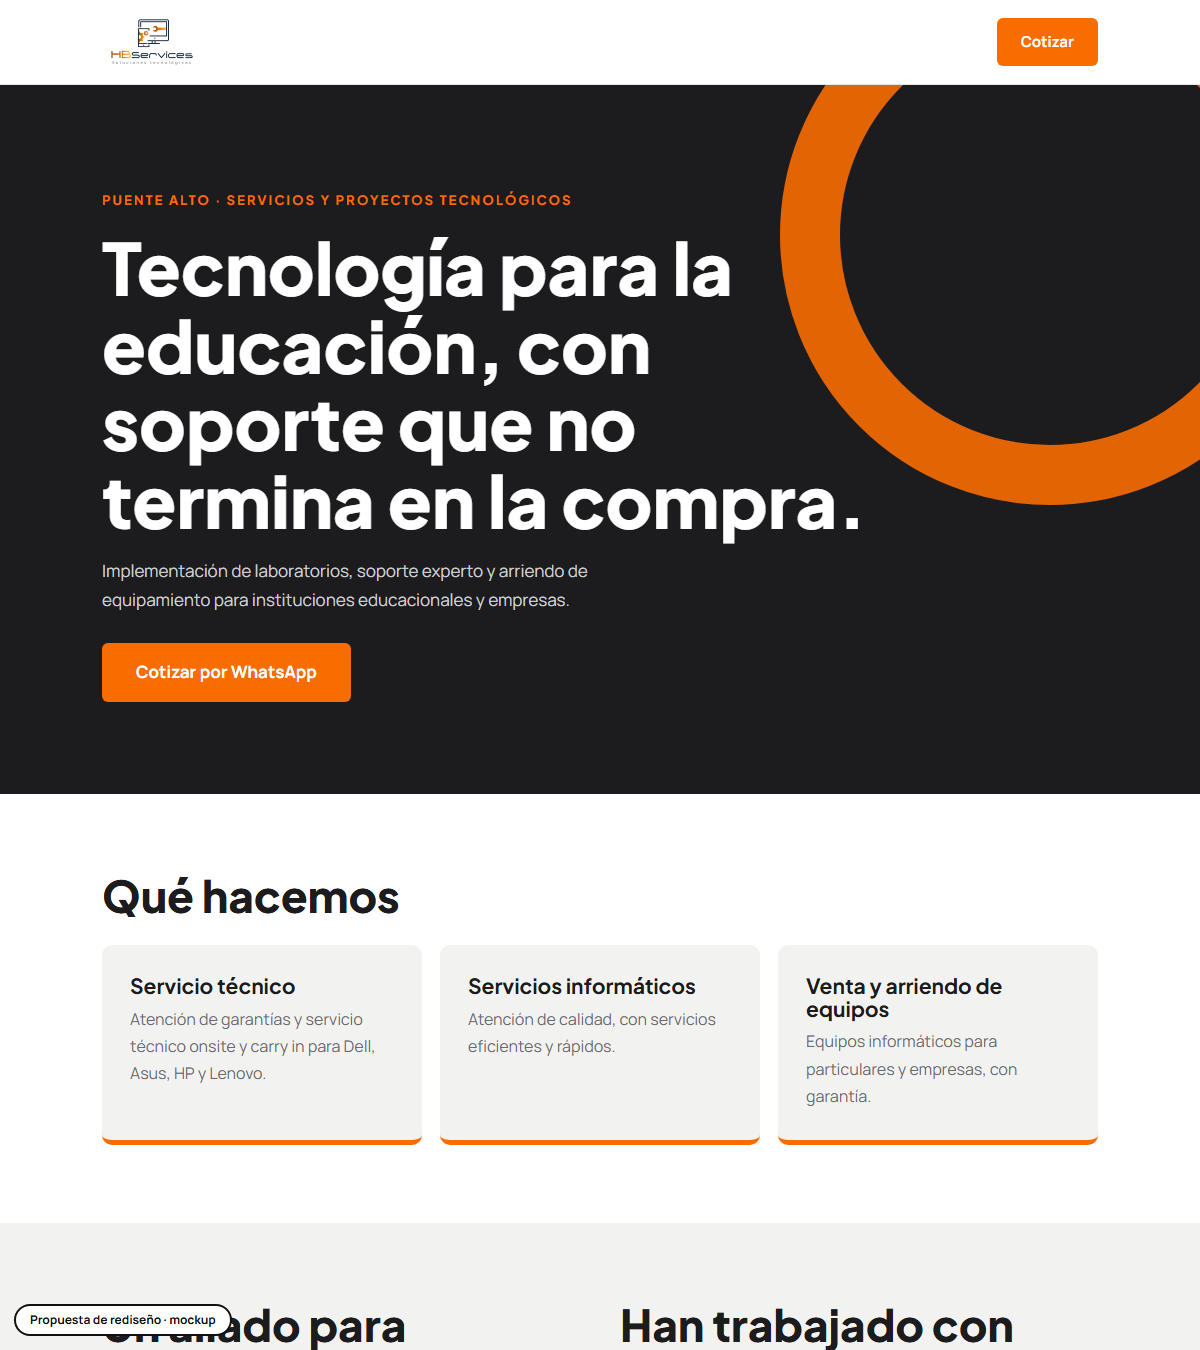
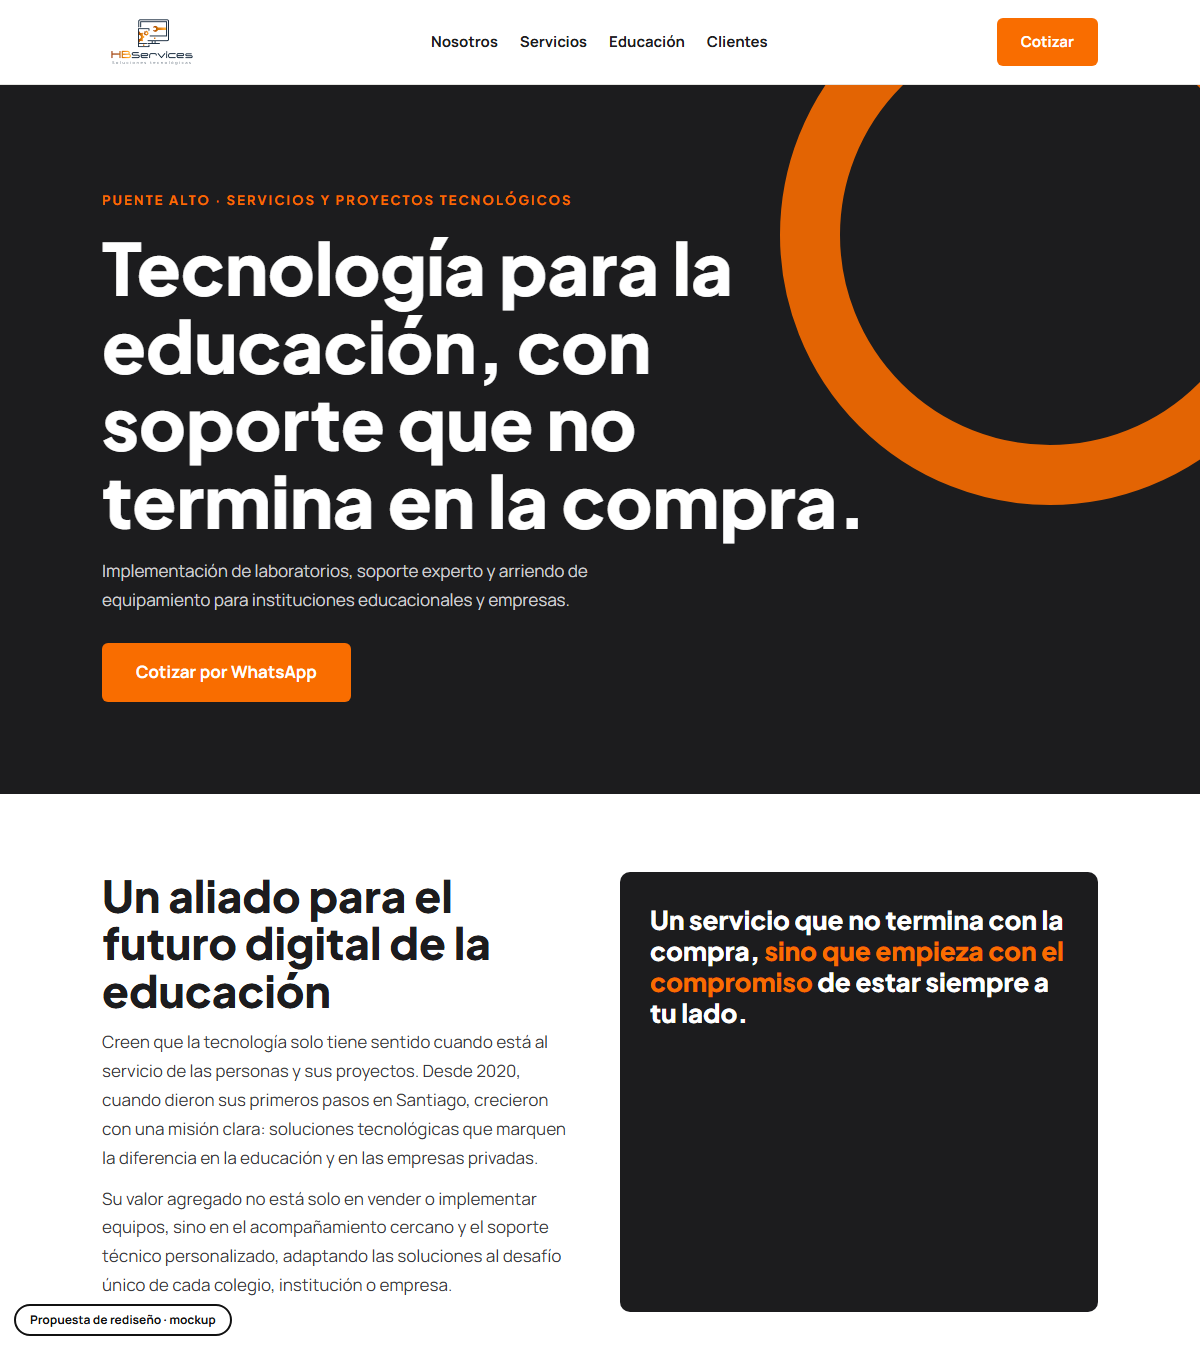
Mockup: hbservice-puente-alto

Changed region(s): [[0.0925, 0.6222, 0.925, 1.0]]

diff --git a/hbservice-puente-alto/index.html b/hbservice-puente-alto/index.html
@@ -6,12 +6,12 @@
 <link href="https://fonts.googleapis.com/css2?family=Plus+Jakarta+Sans:wght@500;700;800&family=Manrope:wght@400;500;700&display=swap" rel="stylesheet">
 <style>
 :root{--or:#f96d00;--ink:#1c1c1e;--steel:#2b2d31;--mist:#f2f2f0;--mute:#6a6a70}
-*{box-sizing:border-box;margin:0}html{scroll-behavior:smooth}
+*{box-sizing:border-box;margin:0}html{scroll-behavior:smooth;scroll-padding-top:100px}
 @media(prefers-reduced-motion:reduce){html{scroll-behavior:auto}}
 body{background:#fff;color:var(--ink);font:400 17px/1.7 Manrope,sans-serif}
 .wrap{max-width:1040px;margin:0 auto;padding:0 22px}
 h1,h2,h3{font-family:'Plus Jakarta Sans',sans-serif;line-height:1.08}
-header{background:#fff;border-bottom:1px solid #e5e5e2}header .wrap{display:flex;justify-content:space-between;align-items:center;height:84px;gap:12px}
+header{position:sticky;top:0;z-index:20;background:#fff;border-bottom:1px solid #e5e5e2}header .wrap{display:flex;justify-content:space-between;align-items:center;height:84px;gap:12px}
 header img{height:56px}
 header a.b{background:var(--or);color:#fff;text-decoration:none;padding:11px 24px;border-radius:6px;font-weight:700;font-size:15px}
 header a.b:hover{background:var(--ink)}
@@ -33,16 +33,18 @@ section{padding:78px 0}h2{font-size:clamp(28px,4.2vw,44px);font-weight:800;margi
 .contact a.l{display:block;font:800 clamp(32px,5.6vw,60px) 'Plus Jakarta Sans';color:var(--or);text-decoration:none;margin:8px 0}.contact a.l:hover{color:#fff}
 .contact p{color:#cfcfd2}
 footer{padding:22px 0 90px;text-align:center;font-size:13px;color:var(--mute)}
-.mock{position:fixed;left:14px;bottom:14px;background:#fff;color:#111;border:2px solid #111;font:700 12px/1 Manrope;padding:8px 14px;border-radius:30px;z-index:9}
+.mock{z-index:30;position:fixed;left:14px;bottom:14px;background:#fff;color:#111;border:2px solid #111;font:700 12px/1 Manrope;padding:8px 14px;border-radius:30px;z-index:9}
 @media(max-width:820px){.g3,.about .g{grid-template-columns:1fr}.hero .wrap{padding:56px 22px}.hero:after{width:240px;height:240px;border-width:36px;right:-90px;top:-90px}}
-</style></head><body>
-<header><div class="wrap"><img src="assets/logo.png" alt="HBServices"><a class="b" href="#contacto">Cotizar</a></div></header>
+nav{display:flex;gap:22px;font-size:15px;font-weight:700}nav a{color:var(--ink);text-decoration:none}nav a:hover{color:var(--or)}.ab{display:grid;grid-template-columns:1fr 1fr;gap:40px}.ab p{margin-bottom:12px;color:#3a3a40}.ab .q{background:var(--ink);color:#fff;padding:32px 30px;border-radius:10px;font:800 26px/1.2 "Plus Jakarta Sans"}.ab .q span{color:var(--or)}.brands{display:flex;flex-wrap:wrap;gap:10px;margin-top:14px}.brands span{border:2px solid var(--or);color:var(--ink);border-radius:30px;padding:5px 18px;font-weight:700;font-size:14.5px;letter-spacing:.04em}.edu{background:var(--ink);color:#fff}.edu h2{color:#fff}.edu .g3 div{background:#2b2d31;border-bottom-color:var(--or)}.edu .g3 p{color:#cfcfd2}.ticks{list-style:none;padding:0;margin-top:10px}.ticks li{padding:4px 0 4px 24px;position:relative;font-size:15.5px;color:#4a4a50}.ticks li:before{content:"";position:absolute;left:0;top:14px;width:12px;height:3px;background:var(--or)}@media(max-width:820px){nav{display:none}.ab{grid-template-columns:1fr}}</style></head><body>
+<header><div class="wrap"><img src="assets/logo.png" alt="HBServices"><nav><a href="#nosotros">Nosotros</a><a href="#servicios">Servicios</a><a href="#educacion">Educación</a><a href="#clientes">Clientes</a></nav><a class="b" href="#contacto">Cotizar</a></div></header>
 <div class="hero"><div class="wrap"><small>Puente Alto · Servicios y proyectos tecnológicos</small><h1>Tecnología para la educación, con soporte que no termina en la compra.</h1><p>Implementación de laboratorios, soporte experto y arriendo de equipamiento para instituciones educacionales y empresas.</p><a class="btn" href="https://wa.me/56978787929?text=Hola%2C%20quisiera%20cotizar%20un%20servicio">Cotizar por WhatsApp</a></div></div>
-<section><div class="wrap"><h2>Qué hacemos</h2><div class="g3">
-<div><h3>Servicio técnico</h3><p>Atención de garantías y servicio técnico onsite y carry in para Dell, Asus, HP y Lenovo.</p></div>
-<div><h3>Servicios informáticos</h3><p>Atención de calidad, con servicios eficientes y rápidos.</p></div>
-<div><h3>Venta y arriendo de equipos</h3><p>Equipos informáticos para particulares y empresas, con garantía.</p></div></div></div></section>
-<section class="about"><div class="wrap g"><div><h2>Un aliado para colegios y empresas</h2><p>Desde 2020 entregan soluciones tecnológicas para el mundo de la educación y las empresas privadas.</p><p>Se especializan en laboratorios computacionales, salas interactivas y espacios tecnológicos recreativos, con asistencia técnica y actualización de hardware y software.</p></div><div><h2>Han trabajado con</h2><div class="cl"><span>Colegio Polivalente RAULI</span><span>Corporación Educacional San Mateo</span><span>Corporación Educacional Rubén Hermosilla</span><span>Corporación Educacional de Adultos</span><span>Instituto Rogeriano</span><span>Actis Chile</span></div></div></div></section>
+<section id="nosotros"><div class="wrap ab"><div><h2>Un aliado para el futuro digital de la educación</h2><p>Creen que la tecnología solo tiene sentido cuando está al servicio de las personas y sus proyectos. Desde 2020, cuando dieron sus primeros pasos en Santiago, crecieron con una misión clara: soluciones tecnológicas que marquen la diferencia en la educación y en las empresas privadas.</p><p>Su valor agregado no está solo en vender o implementar equipos, sino en el acompañamiento cercano y el soporte técnico personalizado, adaptando las soluciones al desafío único de cada colegio, institución o empresa.</p></div><div class="q">Un servicio que no termina con la compra, <span>sino que empieza con el compromiso</span> de estar siempre a tu lado.</div></div></section>
+<section id="servicios" style="padding-top:0"><div class="wrap"><h2>Servicios</h2><div class="g3">
+<div><h3>Servicio técnico y garantías</h3><p>Atención de garantías y servicio técnico onsite y carry in para las marcas con las que trabajan.</p><div class="brands"><span>Dell</span><span>Asus</span><span>HP</span><span>Lenovo</span></div></div>
+<div><h3>Servicios informáticos</h3><p>La mejor solución del mercado, con atención de calidad y servicios eficientes y rápidos, para particulares, instituciones y empresas.</p></div>
+<div><h3>Venta y arriendo de equipamiento</h3><p>Equipos informáticos para particulares y empresas, con calidad y garantía, eficientes y a bajo costo.</p></div></div></div></section>
+<section class="edu" id="educacion"><div class="wrap"><h2>Soluciones tecnológicas para la educación</h2><p style="max-width:62ch;color:#cfcfd2">Implementación de laboratorios, soporte experto y arriendo de equipamiento para instituciones educacionales, con tecnología de última generación.</p><div class="g3"><div><h3>Laboratorios computacionales</h3><p>Implementación de laboratorios para potenciar la enseñanza y el aprendizaje.</p></div><div><h3>Salas interactivas</h3><p>Espacios con tecnología pensada para el aula.</p></div><div><h3>Espacios tecnológicos recreativos</h3><p>Ambientes tecnológicos diseñados para aprender.</p></div></div><p style="margin-top:20px;color:#cfcfd2;max-width:62ch">Compromiso constante con la innovación, la actualización en hardware y software, y la asistencia técnica de calidad.</p></div></section>
+<section id="clientes"><div class="wrap"><h2>Instituciones que confían en HBServices</h2><div class="cl"><span>Colegio Polivalente RAULI</span><span>Corporación Educacional San Mateo</span><span>Corporación Educacional Rubén Hermosilla</span><span>Corporación Educacional de Adultos</span><span>Instituto Rogeriano</span><span>Actis Chile · Servicios Informáticos Nacional</span></div></div></section>
 <section class="contact" id="contacto"><div class="wrap"><h2>Cuéntanos qué necesitas</h2><a class="l" href="https://wa.me/56978787929">+56 9 7878 7929</a><p>Av. Concha y Toro 648, Puente Alto<br><a style="color:#fff" href="mailto:contacto@hbservices.cl">contacto@hbservices.cl</a></p></div></section>
 <footer>HBSERVICES SPA · PUENTE ALTO</footer>
 <div class="mock">Propuesta de rediseño · mockup</div></body></html>
